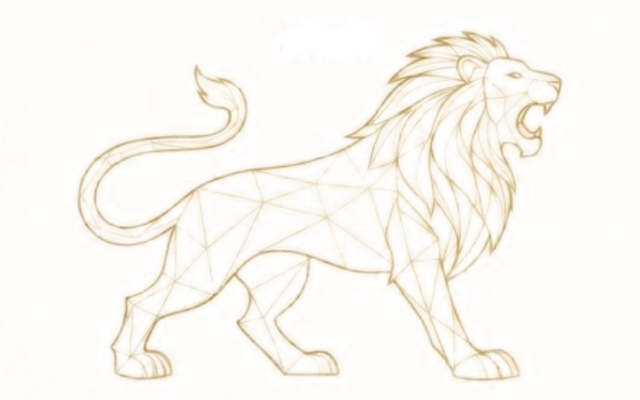
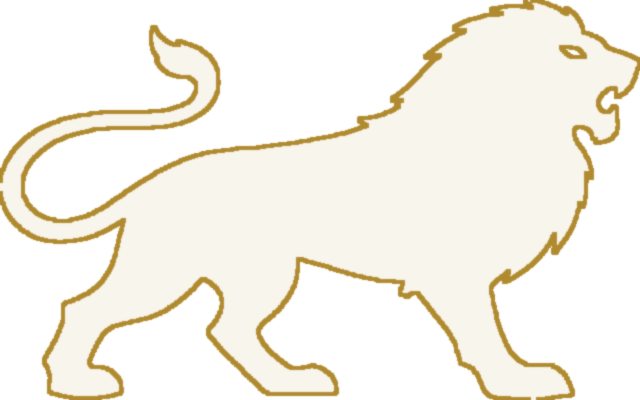
Fix sigil fill alignment: single-source outline + fill
The wireframe outline and the silhouette fill came from two different source
drawings and could not be aligned reliably (and the griffin's feathered wing
defeats any flood-fill). Regenerate BOTH the gold outline (contour + faint
interior) and the black fill from the SAME clean silhouette, so the fill
tracks the outline exactly. Bump sw cache to mgt-v5.

diff --git a/sw.js b/sw.js
@@ -1,4 +1,4 @@
-const CACHE = 'mgt-v4';
+const CACHE = 'mgt-v5';
 const ASSETS = ['./', './index.html', './manifest.json', './icon.svg', './icon-maskable.svg',
   './assets/lion-outline.png','./assets/lion-fill.png','./assets/wolf-outline.png','./assets/wolf-fill.png','./assets/griffin-outline.png','./assets/griffin-fill.png'];
 
